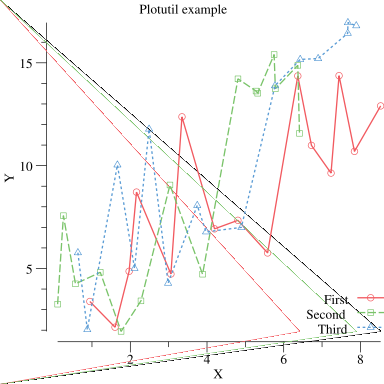
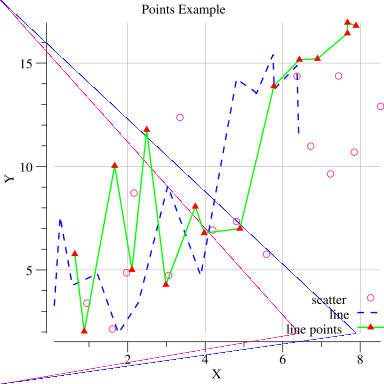
update

diff --git a/least-squares-method/lsm.go b/least-squares-method/lsm.go
@@ -1,0 +1,81 @@
+package main
+
+import (
+        "code.google.com/p/plotinum/plot"
+        "code.google.com/p/plotinum/plotter"
+        "code.google.com/p/plotinum/vg"
+        "image/color"
+        "math/rand"
+)
+
+func main() {
+        // Get some random points
+        rand.Seed(int64(0))
+        n := 15
+        scatterData := randomPoints(n)
+        lineData := randomPoints(n)
+        linePointsData := randomPoints(n)
+
+        // Create a new plot, set its title and
+        // axis labels.
+        p, err := plot.New()
+        if err != nil {
+                panic(err)
+        }
+        p.Title.Text = "Points Example"
+        p.X.Label.Text = "X"
+        p.Y.Label.Text = "Y"
+        // Draw a grid behind the data
+        p.Add(plotter.NewGrid())
+
+        // Make a scatter plotter and set its style.
+        s, err := plotter.NewScatter(scatterData)
+        if err != nil {
+                panic(err)
+        }
+        s.GlyphStyle.Color = color.RGBA{R: 255, B: 128, A: 255}
+
+        // Make a line plotter and set its style.
+        l, err := plotter.NewLine(lineData)
+        if err != nil {
+                panic(err)
+        }
+        l.LineStyle.Width = vg.Points(1)
+        l.LineStyle.Dashes = []vg.Length{vg.Points(5), vg.Points(5)}
+        l.LineStyle.Color = color.RGBA{B: 255, A: 255}
+
+        // Make a line plotter with points and set its style.
+        lpLine, lpPoints, err := plotter.NewLinePoints(linePointsData)
+        if err != nil {
+                panic(err)
+        }
+        lpLine.Color = color.RGBA{G: 255, A: 255}
+        lpPoints.Shape = plot.PyramidGlyph{}
+        lpPoints.Color = color.RGBA{R: 255, A: 255}
+
+        // Add the plotters to the plot, with a legend
+        // entry for each
+        p.Add(s, l, lpLine, lpPoints)
+        p.Legend.Add("scatter", s)
+        p.Legend.Add("line", l)
+        p.Legend.Add("line points", lpLine, lpPoints)
+
+        // Save the plot to a PNG file.
+        if err := p.Save(4, 4, "points.png"); err != nil {
+                panic(err)
+        }
+}
+
+// randomPoints returns some random x, y points.
+func randomPoints(n int) plotter.XYs {
+        pts := make(plotter.XYs, n)
+        for i := range pts {
+                if i == 0 {
+                        pts[i].X = rand.Float64()
+                } else {
+                        pts[i].X = pts[i-1].X + rand.Float64()
+                }
+                pts[i].Y = pts[i].X + 10*rand.Float64()
+        }
+        return pts
+}
